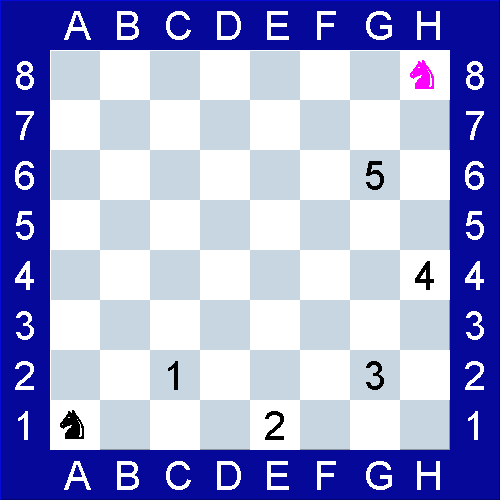
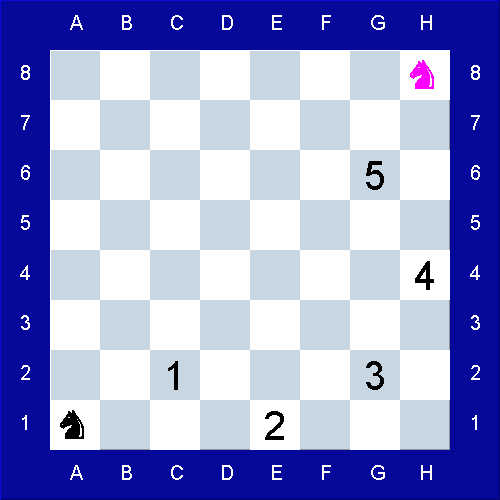
feat: добавить endpoint вывода пути коня

diff --git a/src/main/java/ru/coolspot/chessknight/service/impl/ChessServiceImpl.java b/src/main/java/ru/coolspot/chessknight/service/impl/ChessServiceImpl.java
@@ -26,9 +26,15 @@ public class ChessServiceImpl implements ChessService {
     private Node endNode;
 
     @Override
-    public Integer getCount(String widthS, String heightS, String start, String end) {
+    public String getCount(String widthS, String heightS, String start, String end) {
         validateAndSet(widthS, heightS, start, end);
-        return findShortestDistance(null);
+        return findShortestDistance(null).get("count");
+    }
+
+    @Override
+    public String getWay(String widthS, String heightS, String start, String end) {
+        validateAndSet(widthS, heightS, start, end);
+        return findShortestDistance(null).get("way");
     }
 
     @Override
@@ -101,7 +107,8 @@ public class ChessServiceImpl implements ChessService {
     }
 
 
-    private Integer findShortestDistance(Graphics2D image) {
+    private Map<String, String> findShortestDistance(Graphics2D image) {
+
         if (startNode.getX() < 0 || startNode.getX() > width - 1) {
             throw new ValidationException("Стартовая позиция по горизонтали невозможна!");
         }
@@ -114,6 +121,8 @@ public class ChessServiceImpl implements ChessService {
         if (endNode.getY() < 0 || endNode.getY() > height - 1) {
             throw new ValidationException("Конечная позиция по вертикали невозможна!");
         }
+
+        Map<String, String> resultMap = new HashMap<>();
 
         Set<Node> visited = new HashSet<>();
 
@@ -146,14 +155,17 @@ public class ChessServiceImpl implements ChessService {
                 }
                 way.add(ChessUtil.nodeToString(startNode));
                 Collections.reverse(way);
+
                 log.info("Минимальное количество ходов = {}", dist);
+                resultMap.put("count", String.valueOf(dist));
                 StringBuilder wayToLog = new StringBuilder();
                 for (String str : way) {
                     wayToLog.append(str).append(" -> ");
                 }
                 wayToLog.append(ChessUtil.nodeToString(endNode));
                 log.info("Путь: {}", wayToLog);
-                return dist;
+                resultMap.put("way", wayToLog.toString());
+                return resultMap;
             }
 
             if (!visited.contains(node)) {
@@ -171,14 +183,23 @@ public class ChessServiceImpl implements ChessService {
         }
 
         log.info("Конечное положение недостижимо!");
-        return -1;
+        resultMap.put("count", "-1");
+        resultMap.put("way", "-1");
+        return resultMap;
     }
 
     private void setText(Graphics2D image, int x, int y, String message, Color color) {
-        Font font = new Font("TimesRoman", Font.PLAIN, 40);
+        int size = 40;
+        int paddingX = message.length() < 2 && !message.equals("♞") ? 14 : 2;
+        int paddingY = 10;
+        if (x < 0 || y < 0 || x == width || y == height) {
+            size = 20;
+            paddingX = 20;
+            paddingY = 20;
+        }
+        Font font = new Font("TimesRoman", Font.PLAIN, size);
         image.setFont(font);
         image.setPaint(color);
-        int padding = message.length() < 2 && !message.equals("♞") ? 14 : 2;
-        image.drawString(message, x * CAGE + padding + CAGE, (height - y) * CAGE - 10 + CAGE);
+        image.drawString(message, x * CAGE + paddingX + CAGE, (height - y) * CAGE - paddingY + CAGE);
     }
 }

diff --git a/src/main/java/ru/coolspot/chessknight/controller/BaseController.java b/src/main/java/ru/coolspot/chessknight/controller/BaseController.java
@@ -1,0 +1,48 @@
+package ru.coolspot.chessknight.controller;
+
+import lombok.RequiredArgsConstructor;
+import lombok.extern.slf4j.Slf4j;
+import org.springframework.http.MediaType;
+import org.springframework.http.ResponseEntity;
+import org.springframework.web.bind.annotation.GetMapping;
+import org.springframework.web.bind.annotation.RequestMapping;
+import org.springframework.web.bind.annotation.RequestParam;
+import org.springframework.web.bind.annotation.RestController;
+import ru.coolspot.chessknight.service.ChessService;
+
+import javax.servlet.http.HttpServletRequest;
+
+@RestController
+@RequestMapping(path = "/horse/rest")
+@RequiredArgsConstructor
+@Slf4j
+public class BaseController {
+
+    private final ChessService chessService;
+
+    @GetMapping("/count")
+    public String getCount(@RequestParam String width, @RequestParam String height,
+                            @RequestParam String start, @RequestParam String end,
+                            HttpServletRequest request) {
+        log.info("{}: Запрос к эндпоинту '{}'", request.getRemoteAddr(), request.getRequestURI());
+        return chessService.getCount(width, height, start, end);
+    }
+
+    @GetMapping("/way")
+    public String getWay(@RequestParam String width, @RequestParam String height,
+                            @RequestParam String start, @RequestParam String end,
+                            HttpServletRequest request) {
+        log.info("{}: Запрос к эндпоинту '{}'", request.getRemoteAddr(), request.getRequestURI());
+        return chessService.getWay(width, height, start, end);
+    }
+
+    @GetMapping("/image")
+    public ResponseEntity<byte[]> getImage(@RequestParam String width, @RequestParam String height,
+                                           @RequestParam String start, @RequestParam String end,
+                                           HttpServletRequest request) {
+        log.info("{}: Запрос к эндпоинту '{}'", request.getRemoteAddr(), request.getRequestURI());
+        return ResponseEntity.ok()
+                .contentType(MediaType.IMAGE_PNG)
+                .body(chessService.getImage(width, height, start, end));
+    }
+}

diff --git a/src/test/java/ru/coolspot/chessknight/service/ChessServiceTest.java b/src/test/java/ru/coolspot/chessknight/service/ChessServiceTest.java
@@ -12,7 +12,7 @@ public class ChessServiceTest {
 
     @Test
     public void shouldReturnCorrectDistance() {
-        assertEquals(1, cs.getCount("8", "8", "B3", "A1"),
+        assertEquals("1", cs.getCount("8", "8", "B3", "A1"),
                 "Дистанция должна быть равна 1 ходу");
     }
 
@@ -66,7 +66,7 @@ public class ChessServiceTest {
 
     @Test
     public void shouldReturnZeroWhenStartEqualsEnd() {
-        assertEquals(0, cs.getCount("8", "8", "A1", "A1"),
+        assertEquals("0", cs.getCount("8", "8", "A1", "A1"),
                 "Дистанция должна быть равна 0");
     }
 
@@ -136,7 +136,7 @@ public class ChessServiceTest {
 
     @Test
     public void shouldReturnNegativeWhenEndUnreachable() {
-        assertEquals(-1, cs.getCount("2", "3", "A1", "B2"),
+        assertEquals("-1", cs.getCount("2", "3", "A1", "B2"),
                 "Дистанция должна быть равна 0");
     }
 }

diff --git a/src/main/java/ru/coolspot/chessknight/service/ChessService.java b/src/main/java/ru/coolspot/chessknight/service/ChessService.java
@@ -2,8 +2,10 @@ package ru.coolspot.chessknight.service;
 
 public interface ChessService {
 
-    Integer getCount(String width, String height, String start, String end);
+    String getCount(String width, String height, String start, String end);
 
     byte[] getImage(String width, String height, String start, String end);
+
+    String getWay(String width, String height, String start, String end);
 
 }

diff --git a/src/test/java/ru/coolspot/chessknight/controller/BaseControllerTest.java b/src/test/java/ru/coolspot/chessknight/controller/BaseControllerTest.java
@@ -14,7 +14,7 @@ import static org.springframework.test.web.servlet.result.MockMvcResultMatchers.
 
 @SpringBootTest
 @AutoConfigureMockMvc
-public class CountControllerTest {
+public class BaseControllerTest {
 
     @Autowired
     private MockMvc mockMvc;

diff --git a/README.md b/README.md
@@ -21,6 +21,9 @@
 Добавить endpoint с выводом шахматной доски картинкой в формате PNG:
 - endpoint /horse/rest/image
 
+Добавить endpoint с выводом координат клеток пути коня:
+- endpoint /horse/rest/way
+
 Входные данные передаются через параметры REST сервиса. Результат работы алгоритма печатается в теле Response.
 Приложение должно работать на базе Tomcat c использованием SpringBoot framework.
 
@@ -39,6 +42,11 @@ http://localhost:8080/horse/rest/image?width=8&height=8&start=A1&end=H8
 должен вернуть PNG-картинку с шахматной доской:
 
 ![PNG-картинка](a1-h8.png)
+
+запрос вида:
+http://localhost:8080/horse/rest/way?width=8&height=8&start=A1&end=H8
+должен вернуть путь:
+A1 -> C2 -> E1 -> G2 -> H4 -> G6 -> H8
 
 ## Требование к оформлению решения
 Решение должно быть оформлено в git репозитории github.com
